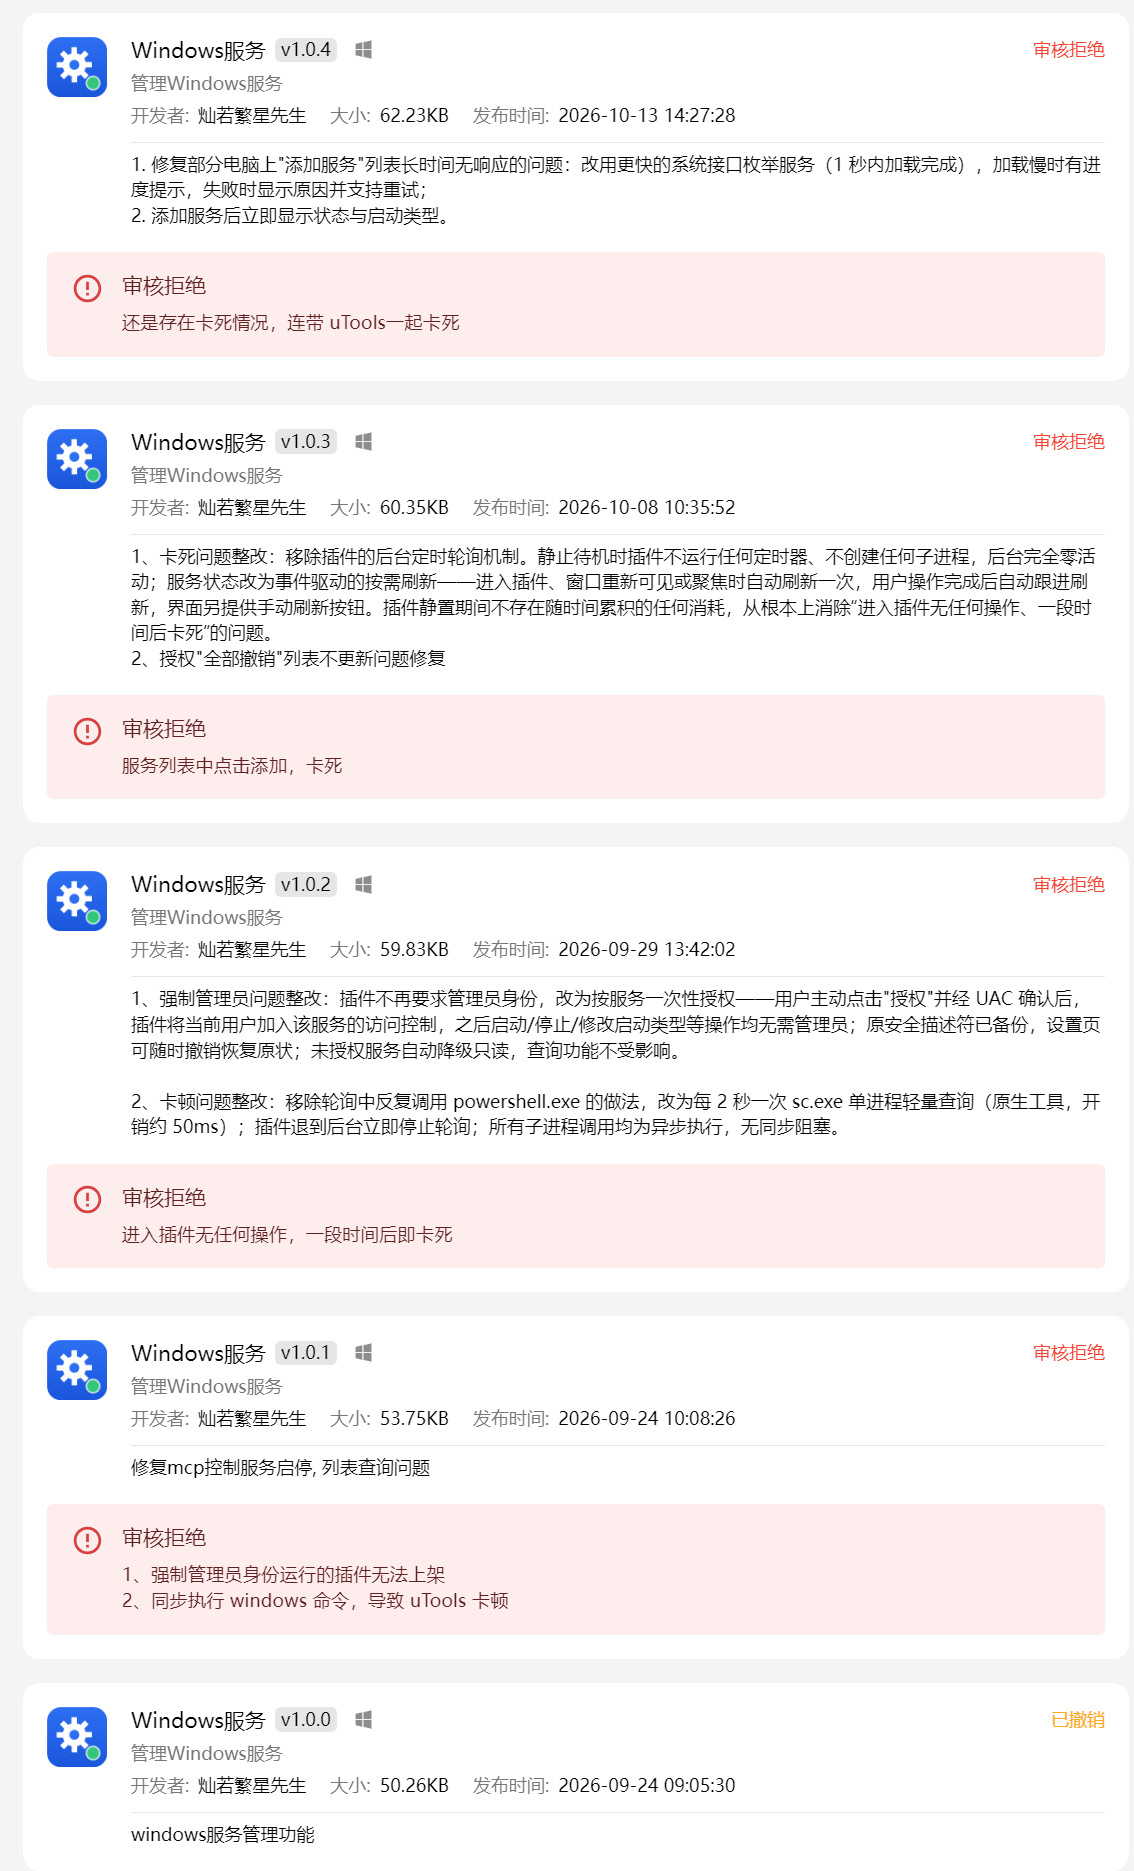
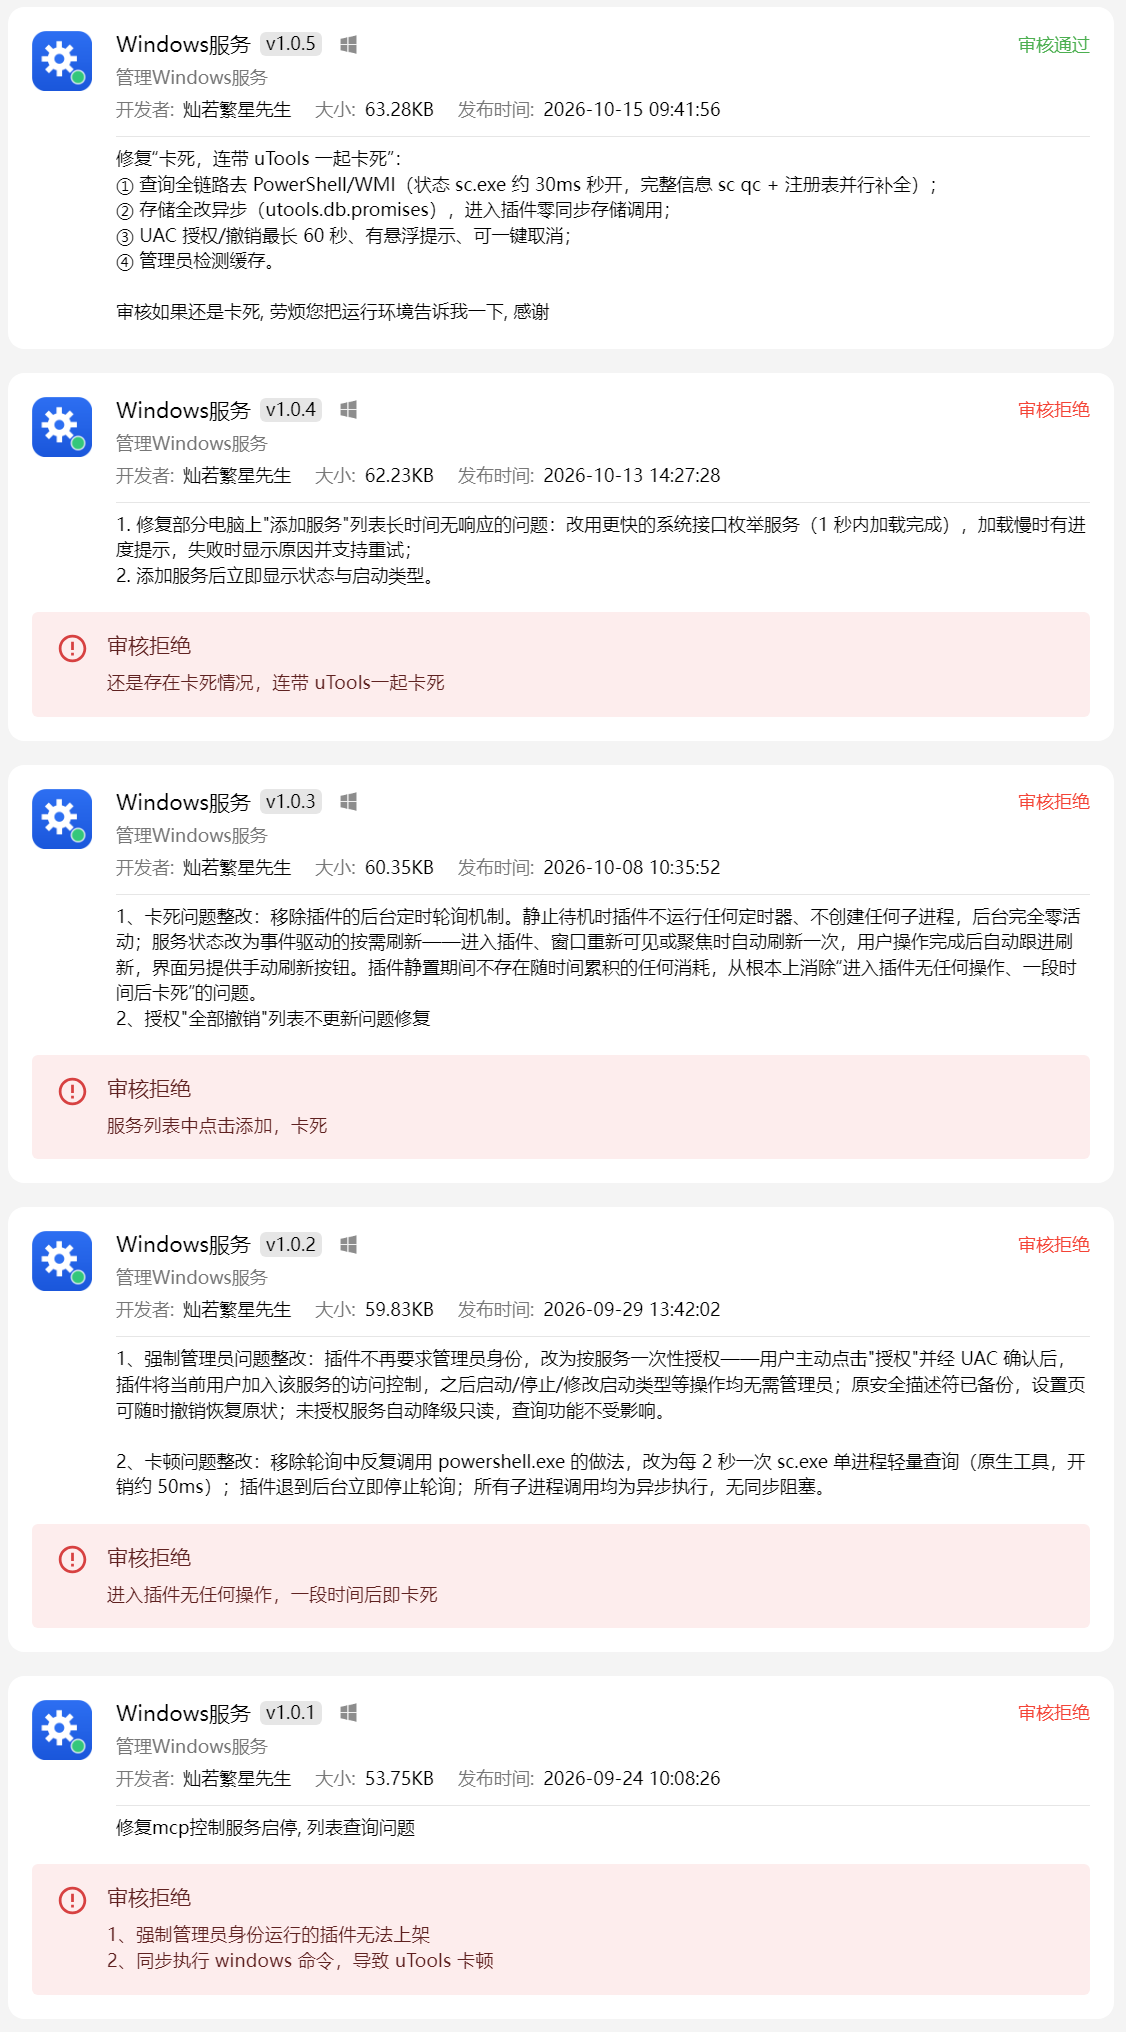
docs: v1.0.5 审核通过上架，更新开发者中心审核记录截图与上架状态

diff --git a/README.md b/README.md
@@ -62,7 +62,7 @@ mcp__utools__set_service_start_type { "name": "Redis", "startType": "disabled" }
 
 ## 上架状态
 
-插件已提交 uTools 插件市场审核（v1.0.5 整改完成待提审），此前四个版本先后被拒，暂未上架，目前可通过 `.upx` 离线安装。
+插件已上架 uTools 插件市场：v1.0.5 于 2026-10-19 通过审核，可在插件市场搜索「Windows服务」直接安装。此前四个版本先后被拒（均为"卡死"类问题），审核整改记录如下。
 
 ![uTools 开发者中心版本审核记录](docs/review-history.png)
 
@@ -74,11 +74,11 @@ mcp__utools__set_service_start_type { "name": "Redis", "startType": "disabled" }
 | v1.0.2 | ❌ 拒绝 | 进入插件无任何操作，一段时间后即卡死（2 秒 PowerShell 轮询在慢环境堆积进程）→ 改为事件驱动刷新，静置零轮询、零子进程 |
 | v1.0.3 | ❌ 拒绝 | 服务列表中点击添加卡死（全量枚举单点依赖 WMI 冷查询，慢环境最长 30 秒无反馈且失败无提示）→ 改用 `sc.exe` + 注册表枚举（1 秒内），加载慢有提示、失败可重试 |
 | v1.0.4 | ❌ 拒绝 | 还是存在卡死情况，连带 uTools 一起卡死（进入插件仍走 PowerShell/WMI 冷查询；每次进入约 30 个同步存储调用阻塞渲染进程、并由 uTools 主进程单点服务；UAC 授权最长 120 秒不可取消）→ 根因级整改见 v1.0.5 |
-| v1.0.5 | ⏳ 待提审 | 2026-10-15 卡死根因架构级整改：查询全链路去 WMI（状态 `sc.exe` 热路径约 30ms 秒开，完整信息 `sc qc` + 注册表三命令并行约 120ms 后台补全）；存储全改 `utools.db.promises` 异步单写（进入插件零同步存储调用），审计日志按官方存储规范移至插件本地数据目录；UAC 等待降为 60 秒、悬浮提示且可一键取消；管理员检测进程内缓存 |
+| v1.0.5 | ✅ 通过（2026-10-19） | 2026-10-15 提审卡死根因架构级整改：查询全链路去 WMI（状态 `sc.exe` 热路径约 30ms 秒开，完整信息 `sc qc` + 注册表三命令并行约 120ms 后台补全）；存储全改 `utools.db.promises` 异步单写（进入插件零同步存储调用），审计日志按官方存储规范移至插件本地数据目录；UAC 等待降为 60 秒、悬浮提示且可一键取消；管理员检测进程内缓存 |
 
 ## 安装使用
 
-**普通用户**：构建 `.upx` 离线安装包后在 uTools 中安装（插件市场审核被拒，暂未上架，见[上架状态](#上架状态)）。
+**普通用户**：uTools 插件市场搜索「Windows服务」安装即可（审核记录见[上架状态](#上架状态)）。
 
 **开发者（uTools 开发者工具）**：
 
